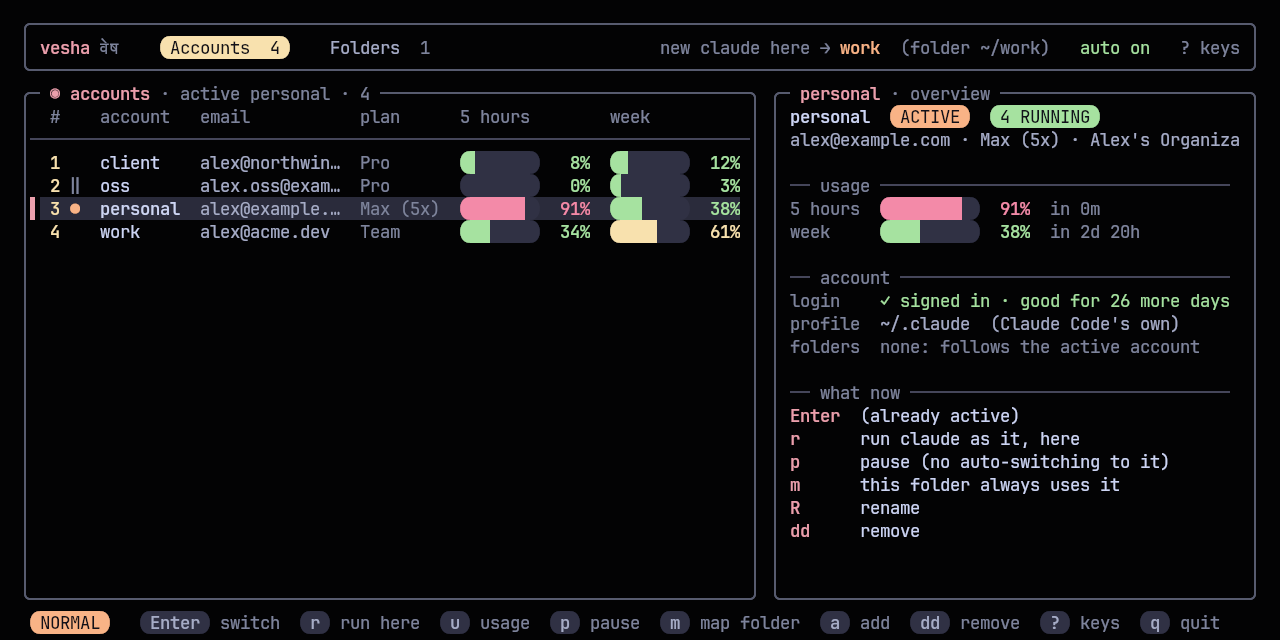
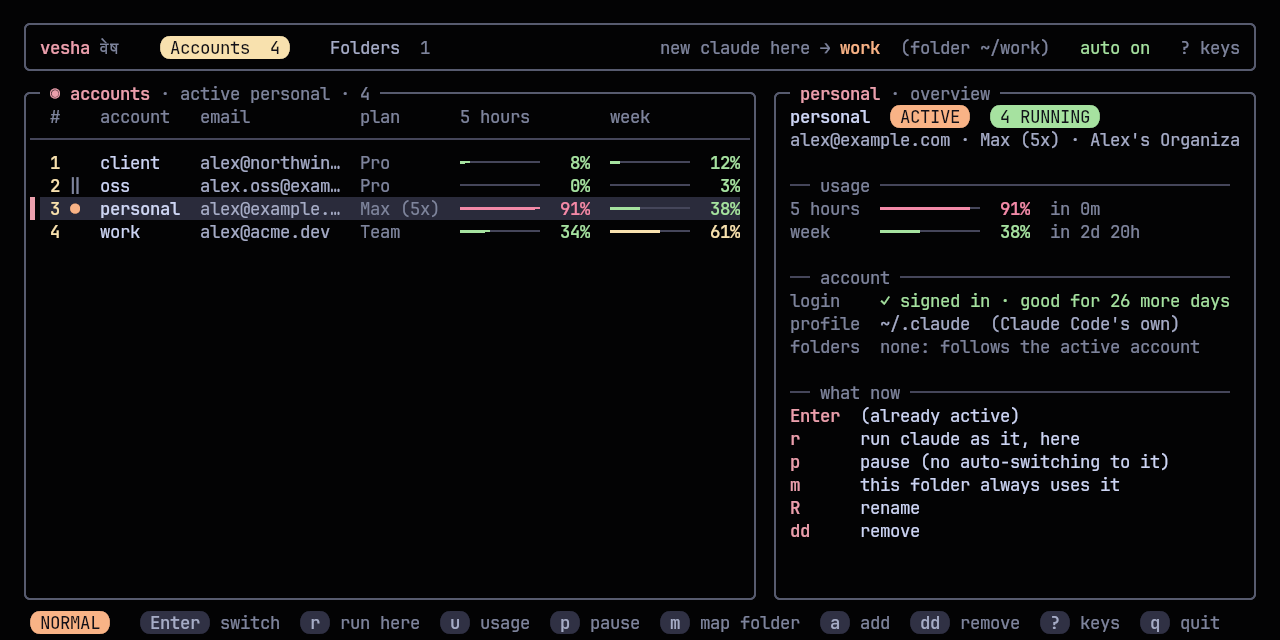
v0.2.3: thin line usage bars

Changed region(s): [[0.3438, 0.2188, 0.4375, 0.4062], [0.4688, 0.2188, 0.5625, 0.4062], [0.6875, 0.2812, 0.7812, 0.4062]]

diff --git a/docs/changelog.html b/docs/changelog.html
@@ -19,8 +19,8 @@
 <a class="brand" href="index.html"><img src="assets/logo.svg" alt=""><span>vesha <small>वेष</small></span></a>
 <nav><a href="index.html" class="">Overview</a><a href="changelog.html" class="on">Changelog</a><a href="adr/index.html" class=" hide">Decisions</a><a class="gh" href="https://github.com/Theyashsawarkar/vesha">GitHub ↗</a></nav></div></header>
 
-<div class="wrap"><aside class="toc"><b>On this page</b><a class="l2" href="#v022">v0.2.2</a><a class="l2" href="#v021">v0.2.1</a><a class="l2" href="#v020">v0.2.0</a><a class="l2" href="#v013">v0.1.3</a><a class="l2" href="#v012">v0.1.2</a><a class="l2" href="#v011">v0.1.1</a><a class="l2" href="#v010">v0.1.0</a></aside><article>
-<h2>Changelog</h2><p>Every change to vesha, newest first. Releases are git tags (<a href="https://github.com/Theyashsawarkar/vesha/tags">all tags</a>, <a href="https://github.com/Theyashsawarkar/vesha/releases">GitHub releases</a>); the source of this page is <a href="https://github.com/Theyashsawarkar/vesha/blob/main/CHANGELOG.md">CHANGELOG.md</a>.</p><section class="release"><h2 id="v022">v0.2.2<span class="date">2026-10-21</span><a class="tag" href="https://github.com/Theyashsawarkar/vesha/releases/tag/v0.2.2">release ↗</a></h2><ul><li><strong>Better-looking usage bars</strong>, in the switcher and the CLI: rounded pills on a soft track, filled to an eighth of a cell, wider in the overview.</li><li><strong>Their colour follows what's used</strong>: green while there's plenty left, yellow from half, red from the warning level (<code>warn_at</code>, 85%). Plain <code>[####----]</code> bars without colour.</li></ul></section><section class="release"><h2 id="v021">v0.2.1<span class="date">2026-10-21</span><a class="tag" href="https://github.com/Theyashsawarkar/vesha/releases/tag/v0.2.1">release ↗</a></h2><ul><li><strong><code>vesha import cswap</code> restores a lost login</strong>: an account vesha has but that lost its login (e.g. after <code>vesha repair</code>) is signed back in from claude-swap's saved copy.</li><li><strong><code>h</code> / <code>l</code></strong> go to the accounts / folder rules tab (arrows too), and <code>Tab</code> reaches the folder rules tab even when there are none yet.</li><li><strong>Rounded capsules</strong> for the tabs, tags, mode and key hints, like the tmux bar.</li><li>Every switcher key is exercised end to end against a throwaway home.</li></ul></section><section class="release"><h2 id="v020">v0.2.0<span class="date">2026-10-21</span><a class="tag" href="https://github.com/Theyashsawarkar/vesha/releases/tag/v0.2.0">release ↗</a></h2><ul><li><strong>Sign in without leaving vesha</strong>: <code>a</code> in the switcher asks for a name and an email, opens Anthropic's sign-in page in your browser with the email filled in, and adds the account when you've entered the emailed code there; if the page shows a code, paste it into vesha. <code>Ctrl+o</code> reopens the page, <code>Ctrl+y</code> copies the link, <code>Esc</code> cancels and cleans up. <code>vesha add &lt;name&gt; &lt;email&gt;</code> does the same from a shell; <code>vesha login</code> fills in the account's email.</li><li><strong>A new look, like sangam</strong>: a tab strip (accounts, folder rules, the account a new claude uses here, auto-switching, <code>? keys</code>), the accounts in a rounded pane with column headers and a marker on the selected row, and an overview pane with usage, login, profile, folders and "what now". Stacks into one column on narrow terminals.</li><li>Fixed: the last column of the screen was never drawn; <code>doctor</code> no longer checks shared files of a profile that isn't made yet.</li></ul></section><section class="release"><h2 id="v013">v0.1.3<span class="date">2026-10-21</span><a class="tag" href="https://github.com/Theyashsawarkar/vesha/releases/tag/v0.1.3">release ↗</a></h2><ul><li><strong><code>vesha repair</code></strong>: when another tool replaced a profile's login (e.g. claude-swap wrote another account into <code>~/.claude</code>), two accounts showed the same usage under the wrong email. repair makes the records match the logins, moves the duplicate profile to vesha's trash folder, forgets the numbers cached under the wrong name, and says which account to sign in again. It shows the plan and asks first.</li><li><strong>The switcher flags it</strong>: a red "login changed" tag and a line saying who is really signed in; <code>vesha doctor</code> points to <code>vesha repair</code>.</li><li><strong><code>vesha login &lt;name&gt;</code></strong> tells you which account to pick, and refuses one that is already another account's.</li></ul></section><section class="release"><h2 id="v012">v0.1.2<span class="date">2026-10-21</span><a class="tag" href="https://github.com/Theyashsawarkar/vesha/releases/tag/v0.1.2">release ↗</a></h2><ul><li><strong>Catches logins changed behind vesha's back</strong>: <code>vesha doctor</code> says when a profile is now signed in to a different account than the one added (e.g. claude-swap or a <code>/login</code> changed <code>~/.claude</code>), and when two profiles hold a copy of the same login.</li><li><strong>Never renews a copied login</strong>: renewing one copy logs the other out (a running session, possibly), so vesha leaves it to Claude Code and says so.</li></ul></section><section class="release"><h2 id="v011">v0.1.1<span class="date">2026-10-21</span><a class="tag" href="https://github.com/Theyashsawarkar/vesha/releases/tag/v0.1.1">release ↗</a></h2><ul><li><strong>Accounts and profiles moved to <code>~/.local/state/vesha</code></strong>: v0.1.0 kept them in <code>~/.local/share/vesha</code>, where kosha and <code>install.sh</code> put vesha itself. They're moved on first run (not while a session runs on an old profile); installing or removing vesha never touches a login (ADR 8).</li><li><code>vesha service status</code> shows the watcher's last log lines.</li><li><code>vesha list</code> with no accounts yet is not an error (exit 0); <code>doctor</code> checks this home's watcher unit, not just systemd.</li><li>The switch note is accurate about folder rules and running sessions.</li></ul></section><section class="release"><h2 id="v010">v0.1.0<span class="date">2026-10-21</span><a class="tag" href="https://github.com/Theyashsawarkar/vesha/releases/tag/v0.1.0">release ↗</a></h2><p>The first release: every Claude Code account signed in at once, one key to switch, and automatic switching when the active one hits its limit.</p>
+<div class="wrap"><aside class="toc"><b>On this page</b><a class="l2" href="#v023">v0.2.3</a><a class="l2" href="#v022">v0.2.2</a><a class="l2" href="#v021">v0.2.1</a><a class="l2" href="#v020">v0.2.0</a><a class="l2" href="#v013">v0.1.3</a><a class="l2" href="#v012">v0.1.2</a><a class="l2" href="#v011">v0.1.1</a><a class="l2" href="#v010">v0.1.0</a></aside><article>
+<h2>Changelog</h2><p>Every change to vesha, newest first. Releases are git tags (<a href="https://github.com/Theyashsawarkar/vesha/tags">all tags</a>, <a href="https://github.com/Theyashsawarkar/vesha/releases">GitHub releases</a>); the source of this page is <a href="https://github.com/Theyashsawarkar/vesha/blob/main/CHANGELOG.md">CHANGELOG.md</a>.</p><section class="release"><h2 id="v023">v0.2.3<span class="date">2026-10-21</span><a class="tag" href="https://github.com/Theyashsawarkar/vesha/releases/tag/v0.2.3">release ↗</a></h2><ul><li><strong>Usage bars are thin lines now</strong>: the used part a bold line in green, yellow or red, flowing into a faint hairline for the rest, to half a cell. No background colour, so they suit a transparent terminal and rows no longer run together (v0.2.2's solid pills looked heavy).</li></ul></section><section class="release"><h2 id="v022">v0.2.2<span class="date">2026-10-21</span><a class="tag" href="https://github.com/Theyashsawarkar/vesha/releases/tag/v0.2.2">release ↗</a></h2><ul><li><strong>Better-looking usage bars</strong>, in the switcher and the CLI: rounded pills on a soft track, filled to an eighth of a cell, wider in the overview.</li><li><strong>Their colour follows what's used</strong>: green while there's plenty left, yellow from half, red from the warning level (<code>warn_at</code>, 85%). Plain <code>[####----]</code> bars without colour.</li></ul></section><section class="release"><h2 id="v021">v0.2.1<span class="date">2026-10-21</span><a class="tag" href="https://github.com/Theyashsawarkar/vesha/releases/tag/v0.2.1">release ↗</a></h2><ul><li><strong><code>vesha import cswap</code> restores a lost login</strong>: an account vesha has but that lost its login (e.g. after <code>vesha repair</code>) is signed back in from claude-swap's saved copy.</li><li><strong><code>h</code> / <code>l</code></strong> go to the accounts / folder rules tab (arrows too), and <code>Tab</code> reaches the folder rules tab even when there are none yet.</li><li><strong>Rounded capsules</strong> for the tabs, tags, mode and key hints, like the tmux bar.</li><li>Every switcher key is exercised end to end against a throwaway home.</li></ul></section><section class="release"><h2 id="v020">v0.2.0<span class="date">2026-10-21</span><a class="tag" href="https://github.com/Theyashsawarkar/vesha/releases/tag/v0.2.0">release ↗</a></h2><ul><li><strong>Sign in without leaving vesha</strong>: <code>a</code> in the switcher asks for a name and an email, opens Anthropic's sign-in page in your browser with the email filled in, and adds the account when you've entered the emailed code there; if the page shows a code, paste it into vesha. <code>Ctrl+o</code> reopens the page, <code>Ctrl+y</code> copies the link, <code>Esc</code> cancels and cleans up. <code>vesha add &lt;name&gt; &lt;email&gt;</code> does the same from a shell; <code>vesha login</code> fills in the account's email.</li><li><strong>A new look, like sangam</strong>: a tab strip (accounts, folder rules, the account a new claude uses here, auto-switching, <code>? keys</code>), the accounts in a rounded pane with column headers and a marker on the selected row, and an overview pane with usage, login, profile, folders and "what now". Stacks into one column on narrow terminals.</li><li>Fixed: the last column of the screen was never drawn; <code>doctor</code> no longer checks shared files of a profile that isn't made yet.</li></ul></section><section class="release"><h2 id="v013">v0.1.3<span class="date">2026-10-21</span><a class="tag" href="https://github.com/Theyashsawarkar/vesha/releases/tag/v0.1.3">release ↗</a></h2><ul><li><strong><code>vesha repair</code></strong>: when another tool replaced a profile's login (e.g. claude-swap wrote another account into <code>~/.claude</code>), two accounts showed the same usage under the wrong email. repair makes the records match the logins, moves the duplicate profile to vesha's trash folder, forgets the numbers cached under the wrong name, and says which account to sign in again. It shows the plan and asks first.</li><li><strong>The switcher flags it</strong>: a red "login changed" tag and a line saying who is really signed in; <code>vesha doctor</code> points to <code>vesha repair</code>.</li><li><strong><code>vesha login &lt;name&gt;</code></strong> tells you which account to pick, and refuses one that is already another account's.</li></ul></section><section class="release"><h2 id="v012">v0.1.2<span class="date">2026-10-21</span><a class="tag" href="https://github.com/Theyashsawarkar/vesha/releases/tag/v0.1.2">release ↗</a></h2><ul><li><strong>Catches logins changed behind vesha's back</strong>: <code>vesha doctor</code> says when a profile is now signed in to a different account than the one added (e.g. claude-swap or a <code>/login</code> changed <code>~/.claude</code>), and when two profiles hold a copy of the same login.</li><li><strong>Never renews a copied login</strong>: renewing one copy logs the other out (a running session, possibly), so vesha leaves it to Claude Code and says so.</li></ul></section><section class="release"><h2 id="v011">v0.1.1<span class="date">2026-10-21</span><a class="tag" href="https://github.com/Theyashsawarkar/vesha/releases/tag/v0.1.1">release ↗</a></h2><ul><li><strong>Accounts and profiles moved to <code>~/.local/state/vesha</code></strong>: v0.1.0 kept them in <code>~/.local/share/vesha</code>, where kosha and <code>install.sh</code> put vesha itself. They're moved on first run (not while a session runs on an old profile); installing or removing vesha never touches a login (ADR 8).</li><li><code>vesha service status</code> shows the watcher's last log lines.</li><li><code>vesha list</code> with no accounts yet is not an error (exit 0); <code>doctor</code> checks this home's watcher unit, not just systemd.</li><li>The switch note is accurate about folder rules and running sessions.</li></ul></section><section class="release"><h2 id="v010">v0.1.0<span class="date">2026-10-21</span><a class="tag" href="https://github.com/Theyashsawarkar/vesha/releases/tag/v0.1.0">release ↗</a></h2><p>The first release: every Claude Code account signed in at once, one key to switch, and automatic switching when the active one hits its limit.</p>
 <ul><li><strong>Profiles, not swaps</strong>: each account is its own Claude Code profile (<code>CLAUDE_CONFIG_DIR</code>); the account in <code>~/.claude</code> stays where it is. Switching never touches a login, and running sessions keep their account.</li><li><strong>Switch from anywhere</strong>: <code>vesha switch [name]</code> changes the account every new <code>claude</code> uses, in every folder and terminal, through a small <code>claude</code> wrapper (<code>vesha install-shim</code>). <code>vesha use</code> for one terminal, <code>vesha run</code> for one command, optional folder rules with <code>vesha map</code>.</li><li><strong>Automatic switching</strong>: <code>vesha service install</code> runs a watcher that warns at 85% of either limit (with a "Switch to …" button) and switches at 98% to the account with the most room, skipping paused and full ones. Each warning is shown once per limit window, even across restarts.</li><li><strong>The switcher</strong> (<code>vesha</code>): every account with its plan, 5-hour and weekly usage and reset times, tags for active / here / paused / running sessions, and the folder rules. Vim keys: <code>j</code>/<code>k</code>, <code>gg</code>/<code>G</code>, <code>Ctrl+d</code>/<code>Ctrl+u</code>, counts, <code>1-9</code>, <code>Tab</code>, <code>Enter</code>, <code>r</code>, <code>u</code>, <code>p</code>, <code>m</code>, <code>a</code>, <code>R</code>/<code>cw</code>, <code>dd</code>, <code>y</code>, <code>/</code> with <code>n</code>/<code>N</code>, and <code>?</code> for all of them. Adapts from 80 columns up.</li><li><strong>Shared setup and history</strong>: CLAUDE.md, settings, skills, plugins, agents, commands and history are linked from <code>~/.claude</code> into every profile, so <code>claude --continue</code> works across accounts.</li><li><strong>Usage everywhere</strong>: <code>vesha usage</code>, <code>vesha list</code> and a waybar module (<code>vesha waybar</code>) that redraws the moment the account changes.</li><li><strong>Logins stay safe</strong>: one copy of each login (Claude Code rotates them), tokens renewed in place only when Claude isn't running on that profile, files private to you, no token ever printed.</li><li><strong><code>vesha import cswap</code></strong> brings claude-swap's accounts across.</li><li><code>vesha doctor</code>, <code>vesha init zsh|bash</code> (shell hook and completion), <code>--json</code> output, help for every command, ruff, tests and a website with the changelog and design decisions.</li></ul></section>
 </article></div>
 <footer><div class="in"><div><h4>Desktop</h4><a href="https://theyashsawarkar.github.io/vayu/" class="">vayu <span>वायु · the keyboard-driven Wayland desktop</span></a></div><div><h4>Apps</h4><a href="https://theyashsawarkar.github.io/kosha/" class="">kosha <span>कोश · package manager</span></a><a href="https://theyashsawarkar.github.io/nada/" class="">nada <span>नाद · music player</span></a><a href="https://theyashsawarkar.github.io/sangam/" class="">sangam <span>संगम · pull requests in the terminal</span></a><a href="https://theyashsawarkar.github.io/anumati/" class="">anumati <span>अनुमति · root commands for AI agents</span></a><a href="https://theyashsawarkar.github.io/vesha/" class="me">vesha <span>वेष · Claude Code accounts</span></a></div><div><h4>Vyom</h4><a href="https://theyashsawarkar.github.io/vyom/" class="">vyom <span>व्योम · panels runtime</span></a></div><div><h4>Vyom tools</h4><a href="https://theyashsawarkar.github.io/dvara/" class="">dvara <span>द्वार · apps</span></a><a href="https://theyashsawarkar.github.io/ganit/" class="">ganit <span>गणित · calculator</span></a><a href="https://theyashsawarkar.github.io/smriti/" class="">smriti <span>स्मृति · clipboard</span></a><a href="https://theyashsawarkar.github.io/bhava/" class="">bhava <span>भाव · emoji</span></a><a href="https://theyashsawarkar.github.io/tarang/" class="">tarang <span>तरंग · Wi‑Fi</span></a><a href="https://theyashsawarkar.github.io/setu/" class="">setu <span>सेतु · Bluetooth</span></a><a href="https://theyashsawarkar.github.io/doot/" class="">doot <span>दूत · phone</span></a><a href="https://theyashsawarkar.github.io/patra/" class="">patra <span>पात्र · Docker</span></a><a href="https://theyashsawarkar.github.io/suchana/" class="">suchana <span>सूचना · notifications</span></a><a href="https://theyashsawarkar.github.io/raga/" class="">raga <span>राग · YouTube</span></a><a href="https://theyashsawarkar.github.io/mudra/" class="">mudra <span>मुद्रा · keybindings</span></a><a href="https://theyashsawarkar.github.io/urja/" class="">urja <span>ऊर्जा · battery</span></a><a href="https://theyashsawarkar.github.io/vishram/" class="">vishram <span>विश्राम · power menu</span></a><a href="https://theyashsawarkar.github.io/kendra/" class="">kendra <span>केन्द्र · quick settings</span></a></div></div>

diff --git a/docs/index.html b/docs/index.html
@@ -24,8 +24,8 @@
 <div class="sa">वेष <span>· “guise”</span></div>
 <p class="lead">Every Claude Code account, one key away: switch from anywhere, and switch by itself at the limit.</p>
 <div class="cta"><a class="btn primary" href="#install">Install</a><a class="btn" href="https://github.com/Theyashsawarkar/vesha">GitHub ↗</a>
-<a class="btn" href="changelog.html">What's new in v0.2.2</a></div>
-<div class="meta"><span><b>v0.2.2</b> latest</span><span><b>7</b> releases</span><span><b>8</b> decisions recorded</span><span><b>MIT</b> license</span></div>
+<a class="btn" href="changelog.html">What's new in v0.2.3</a></div>
+<div class="meta"><span><b>v0.2.3</b> latest</span><span><b>8</b> releases</span><span><b>8</b> decisions recorded</span><span><b>MIT</b> license</span></div>
 </div><img class="logo" src="assets/logo.svg" alt="vesha logo"></div></section>
 <div class="wrap"><aside class="toc"><b>On this page</b><a class="l2" href="#features">Features</a><a class="l2" href="#install">Install</a><a class="l2" href="#getting-started">Getting started</a><a class="l2" href="#the-switcher">The switcher</a><a class="l3" href="#signing-in-a-new-account">Signing in a new account</a><a class="l2" href="#commands">Commands</a><a class="l2" href="#automatic-switching">Automatic switching</a><a class="l2" href="#which-account-a-new-claude-uses">Which account a new claude uses</a><a class="l2" href="#configuration">Configuration</a><a class="l2" href="#integrations">Integrations</a><a class="l2" href="#how-it-works">How it works</a><a class="l2" href="#coming-from-claude-swap">Coming from claude-swap</a><a class="l2" href="#troubleshooting">Troubleshooting</a><a class="l2" href="#contributing">Contributing</a><a class="l2" href="#license">License</a></aside><article>
 <blockquote><p><em>Vesha</em> (वेष) is Sanskrit for "guise, attire": the same Claude, wearing whichever account you choose.</p></blockquote>

diff --git a/vesha/tui.py b/vesha/tui.py
@@ -157,11 +157,6 @@ class App:
             pairs["cap_" + name] = n   # the rounded ends: the chip's colour on the background
             curses.init_pair(n, self.cp[bgc], bg)
             n += 1
-        for fg in ("green", "yellow", "red", "surface"):   # pill bars: fill on the track, rounded ends
-            for name, bgc in (("bar_", self.cp["surface"]), ("edge_", bg), ("sedge_", self.cp["selbg"])):
-                pairs[name + fg] = n
-                curses.init_pair(n, self.cp[fg], bgc)
-                n += 1
         self.pairs = pairs
 
     def a(self, name, bold=False, sel=False):
@@ -218,18 +213,17 @@ class App:
         self.put(y, x2 + 1, "─" * max(0, x + w - x2 - 2), self.a("faint"))
 
     def bar(self, y, x, pct, width, sel=False):
-        """A pill: rounded ends, a soft track, the fill drawn to an eighth of a cell."""
+        """A thin line: the used part bold in green / yellow / red (to half a
+        cell), the rest a faint hairline. No background, so it suits a
+        transparent terminal and rows don't run together."""
         pct = max(0, min(100, pct))
         color = "red" if pct >= core.config()["warn_at"] else "yellow" if pct >= 50 else "green"   # used up: green → yellow → red
-        inner = max(1, width - 2)
-        eighths = round(inner * 8 * pct / 100)
-        edge = "sedge_" if sel else "edge_"
-        cp = curses.color_pair
-        self.put(y, x, "\ue0b6", cp(self.pairs[edge + (color if eighths else "surface")]))
-        for i in range(inner):
-            part = max(0, min(8, eighths - i * 8))
-            self.put(y, x + 1 + i, "█" if part == 8 else " ▏▎▍▌▋▊▉"[part], cp(self.pairs["bar_" + color]))
-        self.put(y, x + 1 + inner, "\ue0b4", cp(self.pairs[edge + (color if eighths >= inner * 8 else "surface")]))
+        halves = round(width * 2 * pct / 100)
+        full, half = divmod(halves, 2)
+        x = self.put(y, x, "━" * full, self.a(color, True, sel))
+        if half:
+            x = self.put(y, x, "╾", self.a(color, True, sel))   # heavy into light: no gap before the track
+        self.put(y, x, "─" * (width - full - half), self.a("faint", sel=sel))
         return color
 
     def chip(self, y, x, text, kind, pair=None):

diff --git a/vesha/cli.py b/vesha/cli.py
@@ -182,25 +182,15 @@ def badge_color(pct):
     return "red" if pct >= core.config()["warn_at"] else "yellow" if pct >= 50 else "green"
 
 
-TRACK = (49, 50, 68)   # Catppuccin surface0: the empty part of a bar
-
-
 def bar(pct, width=20):
-    """A pill, like the switcher's: rounded ends, a soft track, the fill drawn
-    to an eighth of a cell. Plain `[####----]` without colour."""
+    """A thin line, like the switcher's: the used part bold in green / yellow /
+    red (to half a cell), the rest a faint hairline. `[####----]` without colour."""
     pct = max(0, min(100, int(pct)))
-    inner = max(1, width - 2)
-    eighths = round(inner * 8 * pct / 100)
     if not ui.TTY:
-        fill = round(inner * pct / 100)
-        return "[" + "#" * fill + "-" * (inner - fill) + "]"
-    r, g, b = ui._COLORS[badge_color(pct)]
-    fg, track = f"38;2;{r};{g};{b}", "48;2;{};{};{}".format(*TRACK)
-    tfg = "38;2;{};{};{}".format(*TRACK)
-    cells = "".join("█" if (part := max(0, min(8, eighths - i * 8))) == 8 else " ▏▎▍▌▋▊▉"[part] for i in range(inner))
-    left = fg if eighths else tfg
-    right = fg if eighths >= inner * 8 else tfg
-    return f"\033[{left}m\ue0b6\033[0m\033[{fg};{track}m{cells}\033[0m\033[{right}m\ue0b4\033[0m"
+        fill = round((width - 2) * pct / 100)
+        return "[" + "#" * fill + "-" * (width - 2 - fill) + "]"
+    full, half = divmod(round(width * 2 * pct / 100), 2)
+    return c("━" * full + "╾" * half, badge_color(pct), bold=True) + c("─" * (width - full - half), "faint")
 
 
 def usage_cell(u, key="five_hour", w=10):

diff --git a/vesha/__init__.py b/vesha/__init__.py
@@ -1,2 +1,2 @@
 """vesha (वेष, "guise"): every Claude Code account, one key away."""
-VERSION = "0.2.2"
+VERSION = "0.2.3"

diff --git a/CHANGELOG.md b/CHANGELOG.md
@@ -2,6 +2,13 @@
 
 Newest first. Releases are tags (`vX.Y.Z`) with `VERSION` in `vesha/__init__.py`.
 
+## v0.2.3 -- 2026-10-21
+
+- **Usage bars are thin lines now**: the used part a bold line in green,
+  yellow or red, flowing into a faint hairline for the rest, to half a cell.
+  No background colour, so they suit a transparent terminal and rows no
+  longer run together (v0.2.2's solid pills looked heavy).
+
 ## v0.2.2 -- 2026-10-21
 
 - **Better-looking usage bars**, in the switcher and the CLI: rounded pills
